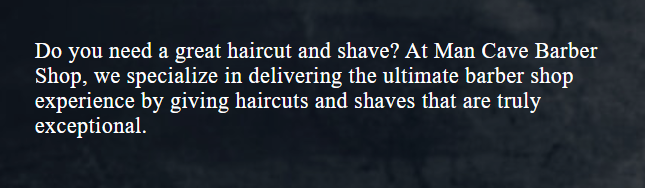
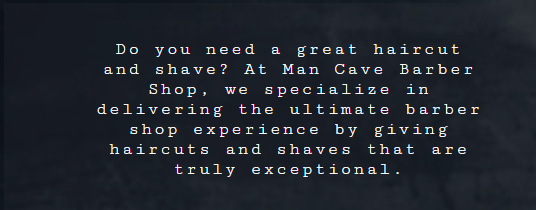
Updating Readme file

diff --git a/css/style.css b/css/style.css
@@ -36,7 +36,7 @@
     flex-direction: row;
     align-items: center;
     justify-content: space-between;
-    background: linear-gradient(to left, #94ad6a, #a3b18a);
+    background-color: #a3b18a;
     height: 50px;
     padding: 1em;
   }
@@ -138,18 +138,18 @@
     position: absolute;
     bottom: 230px;
     left: 50px;
-    max-width: 600px;
-    padding: 3rem;
+    max-width: 500px;
+    padding: 2rem;
     color: #fff;
-    text-align: left;
-    box-shadow: 0 4px 8px 0 rgba(0, 0, 0, 0.4), 0 6px 20px 0 rgba(0, 0, 0, 0.5);
-    border-radius: 0.30em;
+    background-color: rgba(44, 47, 56, 0.241);
+    border-radius: rem;
 }
 
 .about p {
-    font-size: 1.2rem;
-    font-weight: 100;
-    letter-spacing: .03rem;
+    letter-spacing: .1rem;
+    text-align: center;
+    margin: 0 3rem;
+    animation: moveInRight 1s ease-out;
 }
 
 /* Services section */

diff --git a/README.md b/README.md
@@ -71,7 +71,7 @@
 ## Content
 
 - the code to make header and social media taken and adjusted from Love Running project
-
+- The code for the hamburger menu was sourced from https://alvarotrigo.com/blog/hamburger-menu-css/
 ---
 
 ## Technologies used
